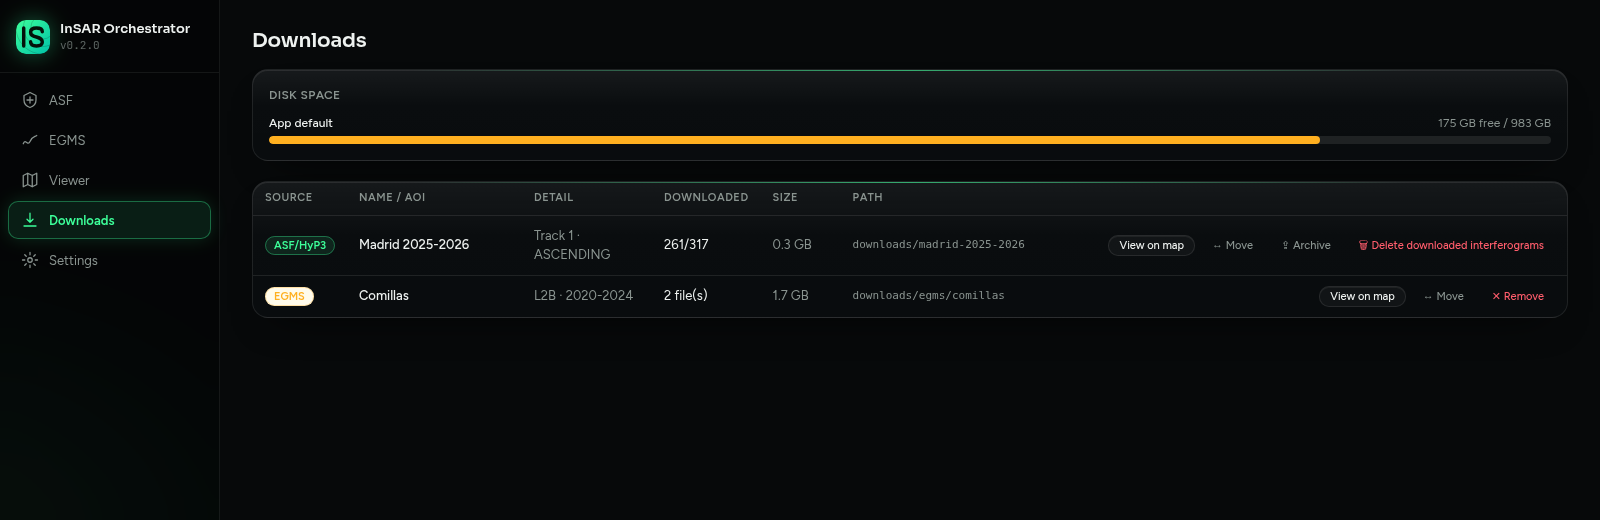
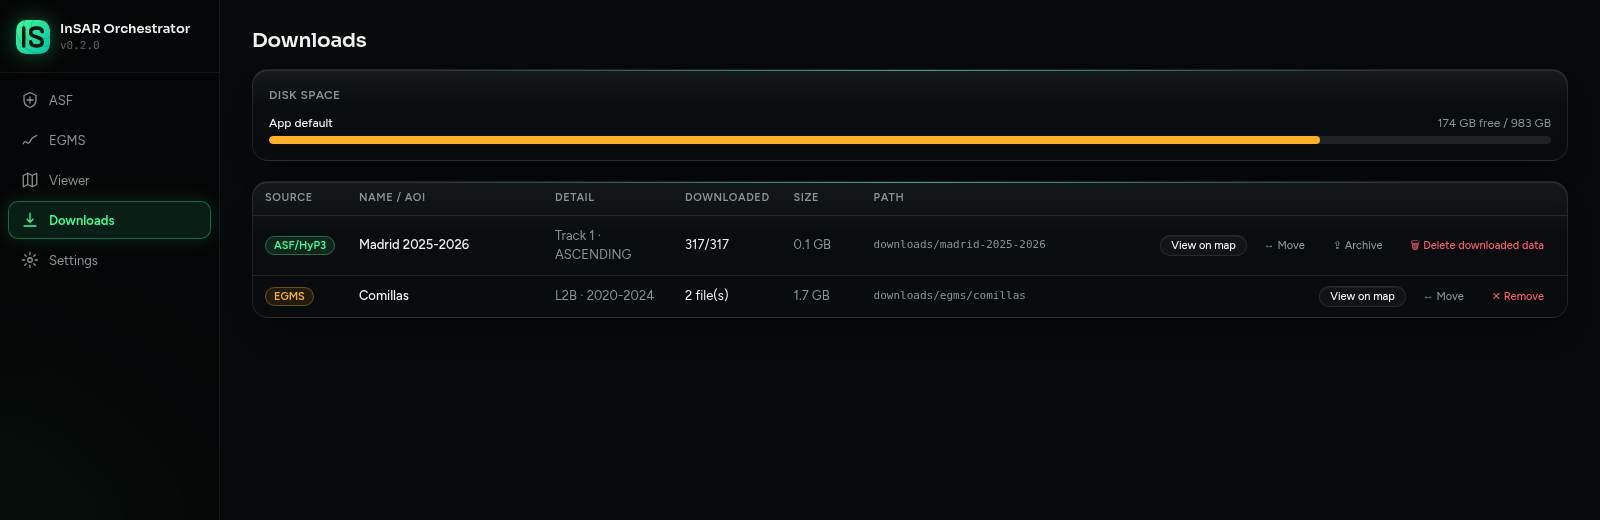
Write the user docs and refresh the screenshots

diff --git a/docs/guide.md b/docs/guide.md
@@ -2,116 +2,12 @@
 
 [![The pipeline, step by step](images/pipeline.gif)](images/pipeline.mp4)
 
-InSAR Orchestrator turns a polygon on a map into a ground-motion time series. This guide gets it running, explains the two ways to get the data and shows how to look after your files.
+InSAR Orchestrator turns a polygon on a map into a ground-motion time series. Read in this order:
 
-## 1. Install and start
+1. **[Quick start](quick-start.md)**: install, start, first steps and fixes for common problems.
+2. **[Credentials](credentials.md)**: Earthdata, EGMS and the Copernicus climate login.
+3. **[Get ground-motion data: ASF or EGMS](get-data.md)**: the two ways to get data, restarts and how a result was produced.
+4. **[Reading a time series](time-series-analysis.md)**: what the numbers in the viewer mean.
+5. **[Your files: disks, backup and archive](backup.md)**: move, free up space, back up and restore.
 
-You need [uv](https://docs.astral.sh/uv/getting-started/installation/) and [Node.js](https://nodejs.org/) 18 or newer.
-
-```bash
-git clone https://github.com/JSempereH/InSAR-Orchestrator.git
-cd InSAR-Orchestrator
-./setup.sh   # once: installs everything and creates backend/.env
-./dev.sh     # starts the app, Ctrl+C stops it
-```
-
-Open <http://localhost:5173>.
-
-**MintPy** is the program that turns HyP3 results into a time series. It is optional and installs on its own. Without it everything works except the "Run MintPy" step:
-
-```bash
-uv pip install --python backend/.venv mintpy
-```
-
-## 2. Add your credentials
-
-Open **Settings** and fill in only what you will use:
-
-| For | Enter | Get it from |
-|---|---|---|
-| ASF / HyP3 | Your Earthdata username and password | A free account at [urs.earthdata.nasa.gov](https://urs.earthdata.nasa.gov/users/new) |
-| EGMS | The full JSON key | A service-account key from your account at [land.copernicus.eu](https://land.copernicus.eu) |
-
-Credentials are stored encrypted. The key that opens them is `SECRET_KEY` in `backend/.env`, which `./setup.sh` creates for you. Do not delete or change it. If it is lost, the app says *"Stored credentials could not be decrypted"* and you simply enter them again.
-
-## 3. How it works: two ways to get ground motion
-
-| | **ASF** | **EGMS** |
-|---|---|---|
-| What you get | Your own time series, computed from Sentinel-1 images | Ready-made products from Copernicus |
-| Where | Anywhere Sentinel-1 flies | Europe |
-| You choose | Your dates, the satellite track and the area | Area, product level and release |
-| Needs | Earthdata account, HyP3 credits, MintPy | The EGMS key |
-| Takes | HyP3 processing, then MintPy | Just the download |
-
-Either way, the result opens in the **Viewer**.
-
-### The ASF way
-
-1. **ASF page, "+ New".** Name the project, set the dates, draw the area, pick a satellite track (the app shows how many scenes each one has) and confirm. *Max temporal neighbors* is how many following images each image is paired with (3 is a good start).
-2. **Submit new batch.** HyP3 processes one interferogram per pair in the cloud. Each pair uses HyP3 credits, and your balance is at the top right. Statuses update on their own.
-3. **Download.** Tick *Auto-download when done*, or download from the table. HyP3 keeps each result online only until its expiry date, and an expired result can no longer be downloaded (it would have to be processed again, using credits). Once a result is on your disk it is yours, whatever HyP3 does afterwards.
-4. **Run MintPy.** The panel at the bottom of the project. It first **crops** the data to your area (see below), then builds the time series.
-5. **Open in viewer.**
-
-### The EGMS way
-
-1. **EGMS page.** Draw the area (up to 5° x 5°), choose a *Level* and press **Search products**:
-   - **L2a / L2b** give a displacement time series for every point.
-   - **L3** gives velocity maps only (vertical and east-west), with no time series.
-2. Tick the products you want and press **Download**.
-3. Open them in the **Viewer**.
-
-### What the crop does, and why
-
-A HyP3 image covers hundreds of kilometres, but your area is a few. Before MintPy runs, the app keeps only a window around your area (with a 25% margin) and **deletes the original downloads**. A project goes from tens of GB to a few hundred MB.
-
-The catch: the crop cannot be redone. If you later want a different area, create a new project and download again. That only works while HyP3 still hosts the results; if they have expired, the pairs have to be processed again.
-
-### In the Viewer
-
-Pick a dataset on the left, click a point and its time series opens in a window you can resize, move or open in a separate browser window. To understand what the numbers mean, read [Reading a time series](time-series-analysis.md).
-
-## 4. Your data
-
-| What | Where |
-|---|---|
-| Projects, batches, jobs | `backend/insar_app.db` |
-| Settings and the encryption key | `backend/.env` |
-| ASF projects | `backend/downloads/<project name>/` |
-| EGMS downloads | `backend/downloads/egms/<name>/` |
-
-**Choose a disk.** When you create a project or an EGMS download, the *Storage destination* menu lists the disks the computer can see. To change the default folder for everything, set `DOWNLOADS_DIR=/path/to/folder` in `backend/.env`.
-
-**Move data to another disk.** On the **Downloads** page press **Move** next to a project or download, pick the destination and wait for the progress bar. The disk has to be mounted already (a network share works if it is mounted). Only one move runs at a time.
-
-**Free up space.** On the **Downloads** page, *Delete downloaded interferograms* removes a project's files but keeps its history (you can download the results again only until they expire on HyP3), and *Remove* deletes an EGMS download from the list (it asks whether to delete the files too).
-
-**Back up automatically.** Install [rclone](https://rclone.org/install/) on the computer that runs the app, then open **Settings, Backup**. The destination is either a folder on a mounted disk (`/mnt/backup/insar`) or `remote:path` for a remote you create once with `rclone config`: S3 and compatible services, or SFTP to another computer you can reach over SSH or a VPN. *Test destination* checks that it is writable, *Back up now* runs one immediately, and *Run automatically* repeats it on a schedule.
-
-Tick or untick the projects you want included under *Projects to back up*. New projects are included by default, and an unticked one is skipped (its files only; the database snapshot still lists it). Each run copies every project folder and then a consistent snapshot of the database. Nothing at the destination is deleted, apart from old database snapshots beyond the daily and weekly retention you set. MintPy work files are skipped because they can be rebuilt. Raw SLC scenes are skipped too unless you tick *Also back up raw SLC scenes*: they cost no HyP3 credits (they come straight from ASF with your Earthdata login), only time and bandwidth, and they are several GB each. If any project folder fails to copy, the database snapshot is not uploaded, so a restored database never points at files the backup lacks. The same thing runs from cron or a systemd timer:
-
-```bash
-cd backend && .venv/bin/python -m app.backup --to s3backup:my-bucket/insar
-```
-
-`backend/.env` is **never** uploaded, because it holds the key to the stored credentials. Keep a copy of it somewhere separate from the backup.
-
-**Archive a project.** When a project is finished and you need the disk space, press **Archive** next to it on the **Downloads** page and give a destination (it is prefilled with your backup destination). The app copies the whole project folder, MintPy results and SLC scenes included, verifies the copy with `rclone check`, checks that nothing in the folder changed meanwhile, and only then deletes the local files. If anything fails the local files stay exactly as they were. An archived project shows as *archived*: you cannot view it, update it or run MintPy until you press **Restore**, which copies it back and verifies it. The archive copy is never removed.
-
-Verification compares sizes and, where the destination supports it, checksums. Some destinations have no checksum in common with a local disk (SFTP without `md5sum`, for example), and then only sizes are compared.
-
-**Back up by hand.** Three things matter:
-
-1. **The database.** Run `make backup-db`. It writes a safe copy to `backups/`, even while the app is running. Do not copy `insar_app.db` by hand: while the app runs, recent changes sit in a side file and a plain copy can miss them.
-2. **`backend/.env`.** It holds the key to the stored credentials. Keep a copy somewhere separate from the database.
-3. **Your project folders.** After the crop, the originals are gone, so a project folder is the only copy of that data. It is small, so copy it with your usual tool. EGMS downloads can be fetched again, so they are optional.
-
-**Restore.** Stop the app, copy the backup over `backend/insar_app.db`, delete `insar_app.db-wal` and `insar_app.db-shm` if they exist, put `backend/.env` and the folders back in the same places, and start the app. On a new computer, run `./setup.sh` first: it never overwrites an existing `backend/.env`.
-
-## If something goes wrong
-
-- **"Stored credentials could not be decrypted"**: `SECRET_KEY` changed. Enter your credentials again in Settings.
-- **"smallbaselineApp.py was not found"**: MintPy is not installed. See step 1.
-- **The Viewer says "No MintPy results yet"**: run MintPy from the project's page in ASF first.
-- **The map stays on "Loading map…"**: the map background comes from the internet. Check your connection and reload.
+Running it on a server: [Deploy](deploy.md).

diff --git a/docs/get-data.md b/docs/get-data.md
@@ -1,0 +1,66 @@
+# Get ground-motion data: ASF or EGMS
+
+Two ways to get ground motion. Either way, the result opens in the **Viewer**.
+
+| | **ASF** | **EGMS** |
+|---|---|---|
+| What you get | Your own time series, computed from Sentinel-1 images | Ready-made products from Copernicus |
+| Where | Anywhere Sentinel-1 flies | Europe |
+| You choose | Dates, satellite track, area | Area, product level, release |
+| Needs | Earthdata account, HyP3 credits, MintPy | The EGMS key |
+| Takes | HyP3 processing, then MintPy | Just the download |
+
+Set up the [credentials](credentials.md) first.
+
+## The ASF way
+
+![A project in the ASF page](images/asf-panel.png)
+
+1. **ASF page, "+ New".** Name the project, set the dates, draw the area, pick a satellite track (the app shows how many scenes each has) and confirm. *Max temporal neighbors* is how many following images each image is paired with (3 is a good start).
+2. **Submit new batch.** HyP3 processes one interferogram per pair in the cloud. Each pair uses HyP3 credits (your balance is at the top right). Statuses update on their own.
+3. **Download.** Tick *Auto-download when done*, or download from the table. HyP3 keeps a result online only until its expiry date. Once it is on your disk it is yours.
+4. **Run MintPy.** The panel at the bottom of the project. It **crops** the data to your area, then builds the time series.
+5. **Open in viewer.**
+
+**Add new dates later.** *Update to today* extends the project to today and offers only the pairs that do not exist yet, so nothing is paid twice.
+
+### What the crop does
+
+A HyP3 image covers hundreds of kilometres, but your area is a few. Before MintPy runs, the app keeps a window around your area (25% margin) and **deletes the original downloads**: a project goes from tens of GB to a few hundred MB.
+
+The crop cannot be redone. For a different area, create a new project and download again, which only works while HyP3 still hosts the results.
+
+## The EGMS way
+
+1. **EGMS page.** Draw the area (up to 5° x 5°), choose a *Level* and press **Search products**:
+   - **L2a / L2b**: a displacement time series for every point.
+   - **L3**: velocity maps only (vertical and east-west), no time series.
+2. Tick the products you want and press **Download**.
+
+## Look at the result
+
+In the **Viewer**, pick a dataset on the left and click a point. Its time series opens in a window you can resize, move or open in a separate browser window.
+
+![The Viewer with a MintPy result](images/viewer-mintpy.png)
+
+For ASF projects the viewer shows the series MintPy computed the velocity from, that is the corrected one (for example `timeseries_ERA5_demErr.h5`). What the numbers mean: [Reading a time series](time-series-analysis.md).
+
+## If the app restarts
+
+An update, a crash or a reboot does not lose work. A few seconds after it starts, the app picks up where it left off:
+
+- A batch still being sent to HyP3 is resumed. Before sending anything the app asks HyP3 which jobs already exist, so an accepted pair is adopted, not submitted twice (that would spend credits twice). If HyP3 cannot be asked, nothing is resubmitted; *Update to today* offers whatever is missing.
+- Finished results never downloaded, in batches with *Auto-download* on, are queued again (results older than about two weeks are skipped: HyP3 has deleted them).
+- A MintPy run cut short is restarted once. If it is interrupted again it shows **INTERRUPTED** and waits for you to press *Run again*.
+
+Downloads you queued by hand, and SLC or EGMS downloads in progress, are not restored: start them again.
+
+## How a result was produced
+
+Open **Processing details** under the MintPy panel.
+
+![Processing details](images/processing-details.png)
+
+It shows the HyP3 parameters of every batch, the pairing rule, the crop, the options MintPy used (reference point, corrections, DEM error) and the software versions. *Download full record* saves everything as JSON, including every pair and its HyP3 job id.
+
+Every MintPy run also writes this record to `provenance.json` in the project folder, so backups and archives explain themselves. Batches submitted before this feature have no recorded parameters. Options the app does not set are MintPy's defaults for the installed version, and the record states each resolved value.

diff --git a/docs/backup.md b/docs/backup.md
@@ -1,0 +1,58 @@
+# Your files: disks, backup and archive
+
+## Where things are
+
+| What | Where |
+|---|---|
+| Projects, batches, jobs | `backend/insar_app.db` |
+| Settings and the encryption key | `backend/.env` |
+| ASF projects | `backend/downloads/<project name>/` |
+| EGMS downloads | `backend/downloads/egms/<name>/` |
+
+To change the default folder for everything, set `DOWNLOADS_DIR=/path/to/folder` in `backend/.env`.
+
+## Disks, space and moving
+
+![The Downloads page](images/downloads-panel.png)
+
+- **Choose a disk.** When you create a project or an EGMS download, the *Storage destination* menu lists the disks the computer can see.
+- **Move.** On **Downloads**, press **Move**, pick the destination and wait for the progress bar. The disk must already be mounted (a network share works). One move at a time.
+- **Free up space.** *Delete downloaded data* removes a project's interferograms, **MintPy results** and `provenance.json`, and keeps the batch and job history. (Raw SLC scenes are separate.) It is refused while MintPy is running. *Remove* deletes an EGMS download (it asks whether to delete the files too).
+
+## Automatic backup
+
+Install [rclone](https://rclone.org/install/) on the machine that runs the app, then open **Settings, Backup**.
+
+![The backup card](images/settings-backup.png)
+
+1. **Destination**: a folder on a mounted disk (`/mnt/backup/insar`), or `remote:path` for a remote you create once with `rclone config` (S3 and compatible, or SFTP to another computer over SSH or a VPN).
+2. **Test destination** checks it is writable. **Back up now** runs one immediately. **Run automatically** repeats it on a schedule.
+3. Tick the projects to include under *Projects to back up*. New projects are included by default.
+
+What a run does: it copies every project folder, then a consistent snapshot of the database. Nothing at the destination is deleted, except old database snapshots beyond the daily and weekly retention you set. If any project fails to copy, the snapshot is not uploaded, so a restored database never points at missing files.
+
+Skipped on purpose: MintPy work files (they can be rebuilt) and raw SLC scenes (they cost no HyP3 credits, only time and bandwidth) unless you tick *Also back up raw SLC scenes*. `backend/.env` is **never** uploaded because it holds the key to your credentials: keep a copy somewhere else.
+
+The same thing runs from cron or a systemd timer:
+
+```bash
+cd backend && .venv/bin/python -m app.backup --to s3backup:my-bucket/insar
+```
+
+## Archive a finished project
+
+Press **Archive** on the **Downloads** page and give a destination (prefilled with your backup one). The app copies the whole folder (MintPy results and SLC included), verifies it with `rclone check`, confirms nothing changed meanwhile, and only then deletes the local files. If anything fails, the local files stay as they were.
+
+An archived project cannot be viewed, updated or run until you press **Restore**, which copies it back and verifies it. The archive copy is never removed.
+
+Verification compares sizes and, where the destination supports it, checksums. Some destinations share no checksum with a local disk (SFTP without `md5sum`): then only sizes are compared.
+
+## Backup by hand
+
+1. **The database.** `make backup-db` writes a safe copy to `backups/`, even while the app runs. Do not copy `insar_app.db` yourself: recent changes may sit in a side file.
+2. **`backend/.env`**, kept apart from the database.
+3. **Project folders.** After the crop the originals are gone, so a project folder is the only copy of that data. It is small. EGMS downloads can be fetched again.
+
+## Restore
+
+Stop the app, copy the backup over `backend/insar_app.db`, delete `insar_app.db-wal` and `insar_app.db-shm` if they exist, put `backend/.env` and the folders back, and start the app. On a new computer run `./setup.sh` first: it never overwrites an existing `backend/.env`.

diff --git a/docs/quick-start.md b/docs/quick-start.md
@@ -1,0 +1,45 @@
+# Quick start
+
+[![The pipeline, step by step](images/pipeline.gif)](images/pipeline.mp4)
+
+From zero to a ground-motion time series in four steps.
+
+## 1. Install and start
+
+You need [uv](https://docs.astral.sh/uv/getting-started/installation/) and [Node.js](https://nodejs.org/) 18 or newer.
+
+```bash
+git clone https://github.com/JSempereH/InSAR-Orchestrator.git
+cd InSAR-Orchestrator
+./setup.sh   # once: installs everything and creates backend/.env
+./dev.sh     # starts the app, Ctrl+C stops it
+```
+
+Open <http://localhost:5173>.
+
+To run it on a server instead, see [Deploy](deploy.md).
+
+## 2. Install MintPy (only for the ASF way)
+
+[MintPy](https://github.com/insarlab/MintPy) turns HyP3 results into a time series. Without it everything works except the *Run MintPy* step:
+
+```bash
+uv pip install --python backend/.venv mintpy
+```
+
+## 3. Add your credentials
+
+Open **Settings** and enter what you will use. See [Credentials](credentials.md).
+
+## 4. Get data and look at it
+
+1. Pick a way to [get data](get-data.md): **ASF** (your own time series, anywhere) or **EGMS** (ready-made, Europe).
+2. Open the result in the **Viewer**, click a point, and read its [time series](time-series-analysis.md).
+
+## If something goes wrong
+
+- **"Stored credentials could not be decrypted"**: `SECRET_KEY` in `backend/.env` changed. Enter your credentials again in Settings.
+- **"smallbaselineApp.py was not found"**: MintPy is not installed (step 2).
+- **The Viewer says "No MintPy results yet"**: run MintPy first, from the project's page in **ASF**.
+- **The map stays on "Loading map…"**: the map background comes from the internet. Check your connection and reload.
+- **The MintPy panel shows a yellow warning about ERA5**: add a Copernicus Climate login, see [Credentials](credentials.md#copernicus-climate-data-store-optional-but-recommended).

diff --git a/docs/credentials.md b/docs/credentials.md
@@ -1,0 +1,28 @@
+# Credentials
+
+Open **Settings** and fill in only what you will use.
+
+![Settings, credentials](images/settings-credentials.png)
+
+| For | Enter | Get it from |
+|---|---|---|
+| ASF / HyP3 | Earthdata username and password | A free account at [urs.earthdata.nasa.gov](https://urs.earthdata.nasa.gov/users/new) |
+| EGMS | The full JSON key | A service-account key from your account at [land.copernicus.eu](https://land.copernicus.eu) |
+| ERA5 correction | A `~/.cdsapirc` file (not entered in Settings) | A free account at [cds.climate.copernicus.eu](https://cds.climate.copernicus.eu) |
+
+## How they are stored
+
+Earthdata and EGMS credentials are stored **encrypted**. The key that opens them is `SECRET_KEY` in `backend/.env`, which `./setup.sh` creates. Do not delete or change it. If it is lost, the app says *"Stored credentials could not be decrypted"* and you enter them again.
+
+## Copernicus Climate Data Store (optional, but recommended)
+
+By default MintPy corrects the troposphere with ERA5 weather data, which it downloads from the Copernicus Climate Data Store. Create the file `~/.cdsapirc` on the machine that runs the app:
+
+```
+url: https://cds.climate.copernicus.eu/api
+key: <your personal access token>
+```
+
+You may also have to accept the ERA5 licence once on the dataset's page. With the container, put the file at `data/home/.cdsapirc`.
+
+**Without it** the app notices before the run, **leaves the ERA5 correction out, runs everything else and shows a warning** in the MintPy panel and in *Processing details*. (Letting MintPy try would stop late in the run with a division-by-zero error that does not mention credentials.) Add the file and press *Run again* to apply the correction. ERA5 files already downloaded into the project's `mintpy/ERA5` folder are reused.
